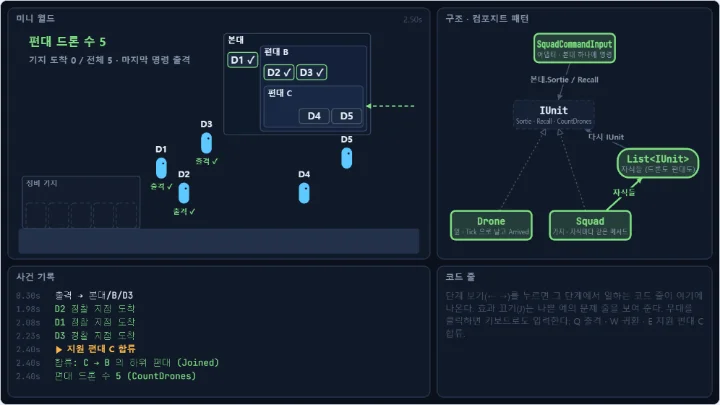
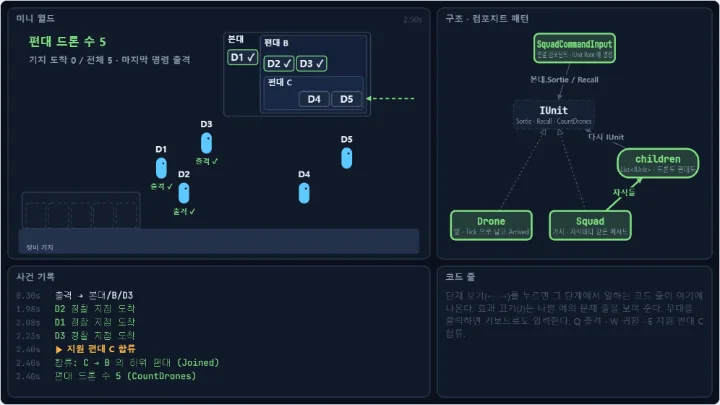
dispatch(composite-drone-squads-fix): 표본 수정: composite-drone-squads
Dispatch-Job: composite-drone-squads-fix
Dispatch-Profile: org
Dispatch-Model: claude-opus-5-5

diff --git a/src/specimens/composite-drone-squads/meta.ts b/src/specimens/composite-drone-squads/meta.ts
@@ -59,7 +59,7 @@ export const meta: PatternMeta = {
       label: '먼저 합류(두 번) → 출격 → 귀환, 속도 4 · 거리 4',
       duration: 5,
       values: { flySpeed: 4, patrolDistance: 4 },
-      note: '속도 4, 거리 4. 0.30초에 먼저 합류하면 나쁜 예는 바로 드론 수가 3 이다 (✖ 수 오산). 0.80초 출격은 패턴에서 C 와 D4, D5 까지 내려가지만 C 는 이미 정찰 중이라 그대로다. 나쁜 예의 출격은 C 에 닿지 않지만 C 가 이미 나가 있어 화면에 차이가 없다. 1.60초에 합류를 또 누르면 패턴은 B.Add 가 "C 는 이미 B 소속" 으로 거절하고 (JoinRejected), 나쁜 예는 supportJoined 플래그로 무시한다. 2.40초 귀환에서 패턴은 4.43초까지 다섯 대가 모두 돌아오고, 나쁜 예는 D4, D5 가 남는다 (✖ 귀환 누락)',
+      note: '속도 4, 거리 4. 0.30초에 먼저 합류하면 나쁜 예는 바로 드론 수가 3 이다 (✖ 수 오산). 0.80초 출격은 패턴에서 C 와 D4, D5 까지 내려가지만 C 는 이미 정찰 중이라 그대로다. 나쁜 예의 출격은 C 에 닿지 않는다. 드론 위치는 패턴과 같지만 무대는 명령이 닿지 않은 것을 회색 `출격 못 받음` 글과 점선 `D4 –`, `D5 –` 칩으로 표시한다 (이미 나가 있어 결과가 같으므로 ✖ 는 아니다). 1.60초에 합류를 또 누르면 패턴은 B.Add 가 "C 는 이미 B 소속" 으로 거절하고 (JoinRejected), 나쁜 예는 supportJoined 플래그로 무시한다. 2.40초 귀환에서 패턴은 4.43초까지 다섯 대가 모두 돌아오고, 나쁜 예는 D4, D5 가 남는다 (✖ 귀환 누락)',
       inputs: [
         [0.3, 'join'],
         [0.8, 'sortie'],
@@ -70,11 +70,11 @@ export const meta: PatternMeta = {
   ],
   diagram: {
     nodes: [
-      { id: 'input', label: 'SquadCommandInput', sub: '어댑터 · 본대 하나에 명령', x: 50, y: 8 },
+      { id: 'input', label: 'SquadCommandInput', sub: '연결 컴포넌트 · IUnit Root 에 명령', x: 50, y: 8 },
       { id: 'iunit', label: 'IUnit', sub: 'Sortie · Recall · CountDrones', x: 42, y: 38, kind: 'interface' },
       { id: 'drone', label: 'Drone', sub: '잎 · Tick 으로 날고 Arrived', x: 18, y: 88 },
       { id: 'squad', label: 'Squad', sub: '가지 · 자식마다 같은 메서드', x: 56, y: 88 },
-      { id: 'children', label: 'List<IUnit>', sub: '자식들 (드론도 편대도)', x: 82, y: 60, kind: 'object' },
+      { id: 'children', label: 'children', sub: 'List<IUnit> · 드론도 편대도', x: 82, y: 60, kind: 'object' },
     ],
     edges: [
       { id: 'input-iunit', from: 'input', to: 'iunit', label: '본대.Sortie / Recall', kind: 'call' },
@@ -100,17 +100,17 @@ export const meta: PatternMeta = {
     ],
   },
   steps: [
-    { n: 1, label: '명령은 본대 하나에 보낸다', body: '`SquadCommandInput` 은 Q·W 를 받으면 `Root.Sortie()` 나 `Root.Recall()` 한 줄만 부른다. 지휘 코드는 본대 아래가 몇 단계인지, 드론이 몇 대인지 모른다. 본대도 `IUnit` 이라 받는 쪽이 드론 한 대여도 같은 줄이다.', target: 'input,input-iunit,iunit' },
-    { n: 2, label: '편대는 자식마다 같은 메서드를 부른다', body: '`Squad.Recall` 은 받았다고 알리고(`OrderReceived`) `List<IUnit>` 자식마다 `child.Recall()` 을 부른다. 자식이 드론인지 편대인지 묻지 않는다 (`is` 검사가 없다). 사건 기록의 `귀환 → 본대`, `귀환 → 본대/D1`, `귀환 → 본대/B` 순서가 이 호출 순서다.', target: 'squad,squad-children,children' },
-    { n: 3, label: '하위 편대도 같은 일을 되풀이한다', body: '자식이 편대 B 면 `B.Recall` 이 다시 D2, D3, C 마다 부르고, C 가 또 D4, D5 에 부른다. 같은 메서드가 잎까지 스스로 내려가므로 세 단계든 열 단계든 지휘 코드는 그대로다. `CountDrones` 와 `Tick` 도 같은 길로 내려가고, Unity 의 `SquadNode` 도 같은 방식으로 Hierarchy 를 내려가며 트리를 만든다. 합류는 `B.Add(C)` 한 번이고, 자기 자신·조상·이미 소속이 있는 편대는 받지 않는다 (`JoinRejected`).', target: 'children,children-iunit,iunit,squad-iunit' },
+    { n: 1, label: '명령은 본대 하나에 보낸다', body: '`SquadCommandInput` 은 본대를 `IUnit Root` 로만 들고, Q·W 를 받으면 `Root.Sortie()` 나 `Root.Recall()` 한 줄만 부른다. 지휘 코드는 본대 아래가 몇 단계인지, 드론이 몇 대인지 모른다. 본대도 `IUnit` 이라 받는 쪽이 드론 한 대여도 같은 줄이다.', target: 'input,input-iunit,iunit' },
+    { n: 2, label: '편대는 자식마다 같은 메서드를 부른다', body: '`Squad.Recall` 은 받았다고 알리고(`OrderReceived`) 자식 목록 `children`(`List<IUnit>`)의 자식마다 `child.Recall()` 을 부른다. 자식이 드론인지 편대인지 묻지 않는다 (`is` 검사가 없다). 사건 기록의 `귀환 → 본대`, `귀환 → 본대/D1`, `귀환 → 본대/B` 순서가 이 호출 순서다.', target: 'squad,squad-children,children' },
+    { n: 3, label: '하위 편대도 같은 일을 되풀이한다', body: '자식이 편대 B 면 `B.Recall` 이 다시 D2, D3, C 마다 부르고, C 가 또 D4, D5 에 부른다. 같은 메서드가 잎까지 스스로 내려가므로 세 단계든 열 단계든 지휘 코드는 그대로다. `CountDrones` 와 `Tick` 도 같은 길로 내려간다. Unity 쪽도 같은 컴포지트다: `SquadNode` 는 자식 오브젝트가 드론인지 편대인지 `is` 로 묻지 않고 `IUnitNode.Build` 하나만 불러, 자식 편대가 다시 자기 자식을 넣으며 Hierarchy 를 내려가 트리를 만든다. 합류는 `B.Add(C)` 한 번이고, 자기 자신·조상·이미 소속이 있는 편대는 받지 않는다 (`JoinRejected`).', target: 'children,children-iunit,iunit,squad-iunit' },
     { n: 4, label: '잎이 실제로 날고 도착을 알린다', body: '움직이는 것은 `Drone.Tick` 뿐이다. `flySpeed` 로 목적지(정찰 지점이나 기지 자리)를 향해 날고, 닿으면 `Arrived` 를 알린다. 편대가 자식의 이벤트를 위로 올려 본대 구독자 하나가 모두 듣는다. Unity 에서는 `DroneUnit.Update` 가 코어 위치를 transform 에 옮긴다.', target: 'drone,drone-iunit' },
   ],
-  offNote: '지원 편대를 합류시킨 뒤 귀환 명령을 내렸더니 그 편대만 밖에 남는다. 드론 목록(`drones`)과 편대 목록(`squads`)을 따로 들고 지휘 코드가 `foreach` 를 두 단계로 겹쳐 도는 흔한 코드다. 하위 편대가 없던 시절에 쓴 `RecallAll` 은 `root.drones` 와 `root.squads` 의 각 `drones` 까지만 돈다. 합류로 C 가 B 의 `squads` 에 들어가면 귀환 명령이 D4, D5 에 닿지 않고 (✖ 귀환 누락, 빨간 `명령 못 받음`), 같은 두 단계로 세는 `CountDrones` 는 5대를 3대로 센다 (✖ 수 오산, `(실제 5)`). 그래서 D1~D3 이 돌아오면 화면은 `기지 도착 3 / 전체 3` 으로 다 돌아왔다고 보인다. `SortieAll` 도 같은 두 단계지만 C 는 처음부터 나가 있어 출격에서는 티가 안 난다. 어느 순서로 누르든 같다: 합류하지 않으면 나쁜 예도 맞고, 합류하는 순간 수가 틀리고, 합류한 뒤 귀환할 때마다 C 가 남는다. 세 번째 `foreach` 를 덧대면 네 단계가 생길 때 또 빠진다. 개별과 묶음을 다르게 다루면 중첩될수록 분기가 감당이 안 된다.',
+  offNote: '지원 편대를 합류시킨 뒤 귀환 명령을 내렸더니 그 편대만 밖에 남는다. 드론 목록(`drones`)과 편대 목록(`squads`)을 따로 들고 지휘 코드가 `foreach` 를 두 단계로 겹쳐 도는 흔한 코드다. 하위 편대가 없던 시절에 쓴 `RecallAll` 은 `root.drones` 와 `root.squads` 의 각 `drones` 까지만 돈다. 합류로 C 가 B 의 `squads` 에 들어가면 귀환 명령이 D4, D5 에 닿지 않고 (✖ 귀환 누락, 빨간 `명령 못 받음`), 같은 두 단계로 세는 `CountDrones` 는 5대를 3대로 센다 (✖ 수 오산, `(실제 5)`). 그래서 D1~D3 이 돌아오면 화면은 `기지 도착 3 / 전체 3` 으로 다 돌아왔다고 보인다. `SortieAll` 도 같은 두 단계라 합류 뒤 출격도 D4, D5 에 닿지 않지만, C 는 처음부터 나가 있어 위치는 같다 (무대는 회색 `출격 못 받음` 과 점선 `D4 –` 칩으로만 표시하고, 결과가 같아 ✖ 로 세지 않는다). 같은 코드를 Unity 에 두면 합류 뒤 귀환했을 때 IMGUI 화면 왼쪽 위에 `편대 드론 수 3`, `기지 도착 3 / 전체 3` 이 보이고 Game 뷰 오른쪽에 D4, D5 만 떠 있다 (빨간 표시는 없다). 어느 순서로 누르든 같다: 합류하지 않으면 나쁜 예도 맞고, 합류하는 순간 수가 틀리고, 합류한 뒤 귀환할 때마다 C 가 남는다. 세 번째 `foreach` 를 덧대면 네 단계가 생길 때 또 빠진다. 개별과 묶음을 다르게 다루면 중첩될수록 분기가 감당이 안 된다.',
   mistakes: [
-    { title: '지원 편대를 합류시켰더니 귀환 명령이 그 편대에만 닿지 않는다', body: '지휘 코드가 `foreach (d in root.drones)` 와 `foreach (s in root.squads) foreach (d in s.drones)` 처럼 정해진 단계만 돈다. 편대 안에 편대가 생기면 세 번째 단계의 드론은 아무도 부르지 않는다. 드론 수를 세는 코드도 같은 모양이라 함께 틀린다. 편대가 자식마다 같은 메서드를 부르게 하면(`child.Recall()`) 단계 수를 코드에 적을 일이 없다.' },
+    { title: '지원 편대를 합류시켰더니 귀환 명령이 그 편대에만 닿지 않는다', body: '지휘 코드가 `foreach (d in root.drones)` 와 `foreach (s in root.squads) foreach (d in s.drones)` 처럼 정해진 단계만 돈다. 편대 안에 편대가 생기면 세 번째 단계의 드론은 아무도 부르지 않는다. 드론 수를 세는 코드도 같은 모양이라 함께 틀린다. Unity 에서는 왼쪽 위 글이 `편대 드론 수 3`, `기지 도착 3 / 전체 3` 으로 다 돌아온 것처럼 보이고, Game 뷰 오른쪽에 D4, D5 만 떠 있다. 편대가 자식마다 같은 메서드를 부르게 하면(`child.Recall()`) 단계 수를 코드에 적을 일이 없다.' },
     { title: '편대 안 편대를 처리하려고 `is Squad` 분기를 넣었더니 명령마다 if 가 늘어난다', body: '`if (u is Drone d) d.Recall(); else if (u is Squad s) …` 를 출격, 귀환, 수 세기마다 쓰면 새 종류(수송 드론 묶음 등)를 더할 때 모든 곳을 고쳐야 하고, 한 곳을 빠뜨리면 그 명령만 안 닿는다. 공통 명령은 `IUnit` 에 두고 각자 구현한다. 편대에만 있는 `Add` 는 이 표본처럼 `Squad` 에만 두거나(안전성: 드론에 넣는 코드를 컴파일이 막는다), `IUnit` 에 두고 `Drone.Add` 가 예외를 던지게 한다(투명성: 쓰는 쪽이 종류를 몰라도 된다). 어느 쪽이든 `Sortie`, `Recall` 에는 분기가 없어야 한다.' },
     { title: '편대를 넣는 순간 게임이 멈추고 StackOverflowException 이 난다', body: '편대를 자기 자신이나 자기 상위 편대 안에 넣으면 트리가 고리가 되어 `Recall` 이 끝없이 자기를 다시 부른다. `Squad.Add` 는 `Parent` 를 따라 올라가며 넣으려는 것이 자기나 조상인지 보고, 그러면 받지 않고 `JoinRejected` 로 알린다. 이 표본의 입력(E)은 C 를 B 에 넣기만 해서 이 경로를 밟지 않지만, 편대를 자유롭게 옮기는 UI 를 만들면 바로 필요하다.' },
-    { title: '한 드론이 명령을 두 번 받는다', body: '같은 드론을 두 편대에 넣었거나, 합류 버튼을 두 번 눌러 같은 편대가 두 번 들어갔다. 트리에서는 한 유닛의 부모가 하나뿐이어야 한다. `Squad.Add` 는 `Parent` 가 이미 있는 유닛을 "C 는 이미 B 소속" 으로 거절한다. 다른 편대로 옮기려면 원래 편대에서 빼는 `Remove` 를 만들고 그 안에서 `Parent` 를 비운 뒤 `Add` 한다.' },
+    { title: '한 드론이 명령을 두 번 받는다', body: '같은 드론을 두 편대에 넣었거나, 합류 버튼을 두 번 눌러 같은 편대가 두 번 들어갔다. 트리에서는 한 유닛의 부모가 하나뿐이어야 한다. `Squad.Add` 는 `Parent` 가 이미 있는 유닛을 "C 는 이미 B 소속" 으로 거절한다. 다른 편대로 옮기려면 원래 편대에서 빼는 `Remove` 를 만들고, 그 안에서 `children.Remove(unit)`, `Parent` 비우기, 이벤트 해제(`unit.OrderReceived -= ForwardOrder`, `unit.Arrived -= ForwardArrived`)를 모두 한 뒤 새 편대에 `Add` 한다. 이벤트 해제를 빠뜨리면 옛 편대가 옮긴 편대의 명령·도착 이벤트를 계속 위로 올려, 본대 구독자가 같은 사건을 두 번 듣는다.' },
     { title: '명령을 내리는 중에 편대를 바꿨더니 InvalidOperationException 이 난다', body: '`foreach (IUnit child in children)` 로 명령을 돌리는 동안 이벤트 핸들러가 `Add` 나 `Remove` 로 그 목록을 고치면 "Collection was modified" 예외가 난다. 예를 들어 `OrderReceived` 를 받자마자 합류시키는 코드다. 이 표본은 합류를 입력 콜백에서만 해 명령 도중과 겹치지 않는다. 명령 도중에 바꿔야 하면 바꿀 일을 모아 두었다가 명령이 끝난 뒤 적용하거나, 자식 목록을 복사해서 돈다.' },
   ],
   unity: {
@@ -125,7 +125,7 @@ export const meta: PatternMeta = {
     ],
     verify: 'E 로 C 를 합류시킨 뒤 W 를 누르면 D4, D5 까지 다섯 대가 모두 기지 자리로 돌아오고, E 를 한 번 더 누르면 Console 에 `[Squad] 합류 거절: C 는 이미 B 소속 (JoinRejected)` 이 나온다.',
     pitfalls: [
-      '`GetComponentsInChildren<DroneUnit>()` 를 본대에서 부르면 아래의 모든 드론을 한 번에 얻어 명령을 다 보낼 수 있다. 하지만 그러면 "편대 B 에만 귀환" 같은 편대 단위 명령과 편대가 받은 기록이 사라지고, 합류 전의 C 처럼 본대 밖의 드론은 빠진다. 꺼진 오브젝트는 기본으로 빠지고 `includeInactive: true` 를 줘야 들어간다. 이 표본의 `SquadNode` 는 바로 아래 자식만 보고, 꺼 둔(`activeSelf` 가 false 인) 자식은 넣지 않는다.',
+      '`GetComponentsInChildren<DroneUnit>()` 를 본대에서 부르면 아래의 모든 드론을 한 번에 얻어 명령을 다 보낼 수 있다. 하지만 그러면 "편대 B 에만 귀환" 같은 편대 단위 명령과 편대가 받은 기록이 사라지고, 합류 전의 C 처럼 본대 밖의 드론은 빠진다. 꺼진 오브젝트는 기본으로 빠지고 `includeInactive: true` 를 줘야 들어간다. 이 표본의 `SquadNode` 는 바로 아래 자식만 보고, 꺼 둔(`activeSelf` 가 false 인) 자식은 넣지 않는다. 합류(`SquadNode.Join`)도 같아서, `C` 나 `B` 를 꺼 둔 채 E 를 누르면 받지 않고 Console 에 오류를 남긴다 (`Join Target`, `Support Squad` 칸이 비었을 때도). 받아 버리면 코어 드론 수는 5 인데 화면에 드론이 없다.',
       '코어 트리는 `SquadCommandInput` 이 처음 `Root` 를 읽을 때(`OnEnable`) 한 번 만든다. Play 중에 Hierarchy 에서 오브젝트를 끌어 옮기거나 껐다 켜도 코어 트리는 그대로다. 합류처럼 코어 `Add` 와 `SetParent` 를 함께 해야 한다 (`SquadNode.Join`). 드론 위치는 `DroneUnit.Update` 가 매 프레임 코어 값으로 넣으므로 Scene 뷰에서 끌어도 다음 프레임에 돌아간다.',
       '`SetParent(transform, true)` 의 두 번째 값 `worldPositionStays` 가 true 면 C 오브젝트의 월드 위치를 그대로 두고 부모만 바꾼다. false 면 local 위치를 그대로 두어 월드 위치가 B 기준으로 바뀐다. 이 표본은 B 와 C 가 모두 (0, 0, 0) 이라 어느 쪽이든 C 가 움직이지 않고, 드론은 `DroneUnit.Update` 가 월드 위치를 넣어 튀지 않는다. 편대 오브젝트를 다른 자리에 두거나 C 에 깃발 같은 표시물을 달았다면 true 여야 한다.',
       '본대의 `Tick` 하나가 트리 안 드론만 움직인다. 합류 전의 C 는 아무도 Tick 하지 않지만 명령을 받을 길도 없어 정찰 지점에 떠 있기만 한다. 합류 전에도 C 를 따로 움직이려면 C 에 자기 지휘 컴포넌트를 두고, 합류할 때 그쪽 Tick 을 멈춘다 (두 곳에서 Tick 하면 두 배로 빠르다).',

diff --git a/src/specimens/composite-drone-squads/sim.ts b/src/specimens/composite-drone-squads/sim.ts
@@ -436,6 +436,10 @@ export const createSim: SimFactory = (values: ParamValues, isNaive: boolean): Pa
       const orderText = lastOrder ? orderName(lastOrder) : ''
       /** 마지막 명령이 닿아야 했는데 못 받은 것 (나쁜 예만) */
       const missedOrder = (name: string) => naive !== null && shouldReach.has(name) && !reached.has(name)
+      /** ✖ 귀환 누락과 같은 판정: 그림자 코어는 들어왔는데(오는 중) 나쁜 예 드론은 밖에 있다. 빨간 표시는 이것만 */
+      const missedRecall = (i: number) => naive !== null && !isOut(drones[i]) && isOut(naiveDrones[i])
+      /** 명령이 안 닿았지만 결과는 같은 것 (이미 나가 있는 드론에 출격). ✖ 가 아니라 회색으로 */
+      const missedNoEffect = (i: number) => !missedRecall(i) && missedOrder(Names[i]) && lastOrder === 'Sortie' && isOut(ds[i])
       const got = (name: string) => lastOrder !== null && reached.has(name)
 
       const world: WorldItem[] = [{ kind: 'box', x: 0, y: 0, w: 16, h: 1, fill: '#22314a' }]
@@ -454,51 +458,68 @@ export const createSim: SimFactory = (values: ParamValues, isNaive: boolean): Pa
       })
       if (naive && shown !== real && docked === shown) world.push({ kind: 'text', x: 0.4, y: 6.95, text: `다 돌아왔다고 보이지만 ${ds.filter(d => isOut(d)).map(d => d.Name).join(', ')} 는 밖에 있다`, align: 'left', size: 18, color: COL.bug })
 
-      // 정비 기지와 자리 다섯 칸
-      world.push({ kind: 'box', x: 0.15, y: 1, w: 4.7, h: 2.1, fill: '#131d2d', stroke: COL.line })
-      world.push({ kind: 'text', x: 0.3, y: 2.7, text: '정비 기지', align: 'left', size: 16, color: COL.dim })
+      // 정비 기지와 자리 다섯 칸. 상자 위 끝(2.45)은 정찰 거리 최소(4)에서 D1 이 뜨는 (4.7, 3) 과 그 아래 글보다 낮다. 이름은 땅 띠에
+      world.push({ kind: 'box', x: 0.15, y: 1, w: 4.7, h: 1.45, fill: '#131d2d', stroke: COL.line })
+      world.push({ kind: 'text', x: 0.3, y: 0.15, text: '정비 기지', align: 'left', size: 14, color: COL.dim })
       for (let i = 0; i < 5; i++) world.push({ kind: 'box', x: HomeXs[i] - 0.4, y: 1.02, w: 0.8, h: 1.0, stroke: '#2b3a52', dashed: true })
 
-      // 드론
-      for (const d of ds) {
+      // 오른쪽 위: 편대 트리 (상자 안 상자). 판의 아래 끝(y 5.5)은 정찰 거리 최대(7)에서 가장 높이 뜨는 D3(9.5, 4)의 이름표 위다.
+      // 드론을 이 판 뒤에 그려 판이 드론을 가리지 않게 한다
+      const squadStroke = (name: string) => (got(name) && recent(at.order, 1.2) ? COL.ok : COL.line)
+      const chip = (i: number, x: number, y: number) => {
+        const name = Names[i]
+        const miss = missedRecall(i)
+        const noEffect = missedNoEffect(i)
+        const ok = !miss && !noEffect && got(name)
+        world.push({
+          kind: 'box',
+          x,
+          y,
+          w: 1.2,
+          h: 0.6,
+          fill: COL.chip,
+          stroke: miss ? COL.bug : noEffect ? COL.dim : ok ? COL.ok : '#4a5872',
+          dashed: noEffect,
+          label: miss ? `${name} ✖` : noEffect ? `${name} –` : ok ? `${name} ✓` : name,
+        })
+      }
+      world.push({ kind: 'box', x: 8.2, y: 5.5, w: 5.85, h: 3.35, fill: '#101a2a', stroke: squadStroke('본대') })
+      world.push({ kind: 'text', x: 8.35, y: 8.45, text: '본대', align: 'left', size: 18, color: COL.text })
+      chip(0, 8.35, 7.55)
+      world.push({ kind: 'box', x: 9.65, y: 5.62, w: 4.25, h: 3.1, fill: '#14213a', stroke: squadStroke('B') })
+      world.push({ kind: 'text', x: 9.8, y: 8.3, text: '편대 B', align: 'left', size: 18, color: COL.text })
+      chip(1, 9.8, 7.3)
+      chip(2, 11.1, 7.3)
+      if (isJoined) {
+        // ✖ 수 오산과 같은 판정 (보이는 수가 실제와 다르다)
+        const cMissed = naive !== null && shown !== real
+        world.push({ kind: 'box', x: 9.8, y: 5.75, w: 3.95, h: 1.33, fill: '#182844', stroke: cMissed ? COL.bug : squadStroke('C'), dashed: cMissed })
+        world.push({ kind: 'text', x: 9.95, y: 6.72, text: '편대 C', align: 'left', size: 18, color: COL.text })
+        if (cMissed) world.push({ kind: 'text', x: 11.2, y: 6.72, text: 'foreach 밖', align: 'left', size: 15, color: COL.bug })
+        chip(3, 11.2, 5.88)
+        chip(4, 12.5, 5.88)
+      } else {
+        world.push({ kind: 'box', x: 14.25, y: 5.5, w: 1.6, h: 3.35, fill: '#101a2a', stroke: '#4a5872', dashed: true })
+        world.push({ kind: 'text', x: 15.05, y: 8.45, text: '편대 C', size: 18, color: COL.text })
+        world.push({ kind: 'text', x: 15.05, y: 8.0, text: '합류 전', size: 15, color: COL.dim })
+        chip(3, 14.45, 7.0)
+        chip(4, 14.45, 6.1)
+      }
+      // 합류 직후: 트리 밖에 있던 C 가 B 안으로 들어온 길
+      if (recent(at.join, 0.8)) world.push({ kind: 'arrow', x1: 15.8, y1: 6.2, x2: 13.85, y2: 6.2, color: isJoined ? COL.ok : COL.dim, dashed: true })
+
+      // 드론 (트리 판보다 나중에 그린다). 빨간 `명령 못 받음` 은 ✖ 귀환 누락과 같은 판정에서만,
+      // 이미 나가 있어 결과가 같은 출격 누락은 회색 한 줄로 (정찰 거리 최대에서 D5 글이 D4 이름표에 닿지 않는 길이.
+      // 오른쪽 끝 드론은 글이 잘리지 않게 글만 안쪽으로)
+      ds.forEach((d, i) => {
         const flying = d.IsFlying
         const facing = d.Status === 'Returning' ? -1 : 1
         world.push({ kind: 'actor', x: d.X, y: d.Y, role: 'ally', label: d.Name, pose: flying ? 'run' : 'idle', facing, scale: 0.6 })
         const markY = d.Y - 0.42
-        if (missedOrder(d.Name)) world.push({ kind: 'text', x: d.X, y: markY, text: '명령 못 받음', size: 18, color: COL.bug })
+        if (missedRecall(i)) world.push({ kind: 'text', x: Math.min(d.X, 15), y: markY, text: '명령 못 받음', size: 18, color: COL.bug })
+        else if (missedNoEffect(i)) world.push({ kind: 'text', x: Math.min(d.X, 15.1), y: markY, text: '출격 못 받음', size: 15, color: COL.dim })
         else if (got(d.Name)) world.push({ kind: 'text', x: d.X, y: markY, text: d.Status === 'Docked' ? '✓' : `${orderText} ✓`, size: 16, color: COL.ok })
-      }
-
-      // 오른쪽 위: 편대 트리 (상자 안 상자)
-      const squadStroke = (name: string) => (got(name) && recent(at.order, 1.2) ? COL.ok : COL.line)
-      const chip = (name: string, x: number, y: number) => {
-        const miss = missedOrder(name)
-        const ok = !miss && got(name)
-        world.push({ kind: 'box', x, y, w: 1.2, h: 0.6, fill: COL.chip, stroke: miss ? COL.bug : ok ? COL.ok : '#4a5872', label: miss ? `${name} ✖` : ok ? `${name} ✓` : name })
-      }
-      world.push({ kind: 'box', x: 8.2, y: 4.75, w: 5.85, h: 4.05, fill: '#101a2a', stroke: squadStroke('본대') })
-      world.push({ kind: 'text', x: 8.35, y: 8.4, text: '본대', align: 'left', size: 18, color: COL.text })
-      chip('D1', 8.35, 7.45)
-      world.push({ kind: 'box', x: 9.65, y: 4.9, w: 4.25, h: 3.4, fill: '#14213a', stroke: squadStroke('B') })
-      world.push({ kind: 'text', x: 9.8, y: 7.95, text: '편대 B', align: 'left', size: 18, color: COL.text })
-      chip('D2', 9.8, 6.95)
-      chip('D3', 11.1, 6.95)
-      if (isJoined) {
-        const cMissed = naive !== null
-        world.push({ kind: 'box', x: 9.8, y: 5.05, w: 3.95, h: 1.65, fill: '#182844', stroke: cMissed ? COL.bug : squadStroke('C'), dashed: cMissed })
-        world.push({ kind: 'text', x: 9.95, y: 6.3, text: '편대 C', align: 'left', size: 18, color: COL.text })
-        if (cMissed) world.push({ kind: 'text', x: 9.95, y: 5.3, text: 'foreach 밖', align: 'left', size: 15, color: COL.bug })
-        chip('D4', 11.2, 5.2)
-        chip('D5', 12.5, 5.2)
-      } else {
-        world.push({ kind: 'box', x: 14.25, y: 4.75, w: 1.6, h: 4.05, fill: '#101a2a', stroke: '#4a5872', dashed: true })
-        world.push({ kind: 'text', x: 15.05, y: 8.4, text: '편대 C', size: 18, color: COL.text })
-        world.push({ kind: 'text', x: 15.05, y: 7.95, text: '합류 전', size: 15, color: COL.dim })
-        chip('D4', 14.45, 6.8)
-        chip('D5', 14.45, 5.9)
-      }
-      // 합류 직후: 트리 밖에 있던 C 가 B 안으로 들어온 길
-      if (recent(at.join, 0.8)) world.push({ kind: 'arrow', x1: 15.8, y1: 5.9, x2: 13.85, y2: 5.9, color: isJoined ? COL.ok : COL.dim, dashed: true })
+      })
 
       // 구조 그림: 입력 직후 그 입력이 지나는 노드와 화살표만
       const active: string[] = []

diff --git a/unity/composite-drone-squads/Unity/SquadCommandInput.cs b/unity/composite-drone-squads/Unity/SquadCommandInput.cs
@@ -1,4 +1,4 @@
-// 본대 지휘 어댑터: Input System 입력을 본대(트리의 뿌리) 하나에 넘긴다. 받는 쪽이 드론인지 편대인지, 트리가 몇 단계인지 모른다.
+// 본대 지휘 연결 컴포넌트: Input System 입력을 본대(트리의 뿌리) 하나에 넘긴다. 본대를 IUnit 으로만 들고 있어, 받는 쪽이 드론인지 편대인지, 트리가 몇 단계인지 모른다.
 // 트리는 처음 읽을 때 Hierarchy 에서 만들고(SquadNode), 매 프레임 본대의 Tick 하나로 트리 안 모든 드론을 움직인다.
 // 화면 글과 Console 기록은 코어 이벤트 핸들러에서 바로 바꾼다. 게임 규칙은 여기 없다 (Core/ 의 Squad, Drone).
 using UnityEngine;
@@ -32,7 +32,7 @@ namespace PatternGallery.CompositeDroneSquads
         [SerializeField] bool logEvents = true;
 
         FlightSettings settings;
-        Squad root;
+        IUnit root; // 지휘 코드는 공통 인터페이스만 안다. 본대가 Squad 라는 것은 트리를 만드는 SquadNode 만 안다
 
         // 확인용 글 (IMGUI). 이벤트 핸들러에서 만들고 OnGUI 는 그리기만 한다
         string countLine = "";
@@ -46,7 +46,7 @@ namespace PatternGallery.CompositeDroneSquads
         /// 처음 읽을 때 Hierarchy 에서 본대 트리를 만든다. 지원 편대도 같은 설정으로 따로 만들어 둔다 (합류 전에는 본대 밖이다).
         /// 다른 오브젝트의 OnEnable 이 이 오브젝트의 Awake 보다 먼저 불려도 null 이 아니게 Awake 에서 만들지 않는다
         /// </summary>
-        public Squad Root
+        public IUnit Root
         {
             get
             {
@@ -112,6 +112,8 @@ namespace PatternGallery.CompositeDroneSquads
             if (settings == null) return;
             settings.FlySpeed = flySpeed;
             settings.PatrolDistance = patrolDistance;
+            // 왼쪽 위 글(드론 수, 기지 도착 수)은 이 두 값을 쓰지 않아 다시 그릴 것이 없다.
+            // 드론 위치는 DroneUnit.Update 가 매 프레임 코어 값으로 옮긴다
         }
 
         void OnSortie(InputAction.CallbackContext _) => Root.Sortie(); // [1] 본대 하나에 보낸다. 트리가 몇 단계인지 모른다
@@ -119,8 +121,13 @@ namespace PatternGallery.CompositeDroneSquads
 
         void OnJoin(InputAction.CallbackContext _)
         {
-            if (joinTarget == null || supportSquad == null) return;
-            joinTarget.Join(supportSquad); // 코어 Add 와 Hierarchy SetParent 를 함께. 결과는 Joined, JoinRejected 로 온다
+            if (joinTarget == null || supportSquad == null)
+            {
+                // 빈 칸은 조용히 넘기지 않는다 (누르는데 아무 일도 없으면 원인을 찾기 어렵다)
+                Debug.LogError($"[Squad] 합류할 수 없다: {(joinTarget == null ? "Join Target" : "Support Squad")} 칸이 비어 있다", this);
+                return;
+            }
+            joinTarget.Join(supportSquad); // 코어 Add 와 Hierarchy SetParent 를 함께. 결과는 Joined, JoinRejected 로 온다 (오브젝트 문제는 Join 이 LogError)
         }
 
         void Update()

diff --git a/unity/composite-drone-squads/Unity/SquadNode.cs b/unity/composite-drone-squads/Unity/SquadNode.cs
@@ -26,10 +26,23 @@ namespace PatternGallery.CompositeDroneSquads
 
         IUnit IUnitNode.Build(FlightSettings settings) => BuildSquad(settings);
 
-        /// <summary>다른 편대를 하위 편대로 받는다. 코어가 받아들였을 때만 Hierarchy 에서도 옮긴다</summary>
+        /// <summary>
+        /// 다른 편대를 하위 편대로 받는다. 코어가 받아들였을 때만 Hierarchy 에서도 옮긴다.
+        /// 오브젝트 쪽 문제(꺼져 있음, 트리를 아직 만들지 않음)는 코어에 넣지 않고 LogError 로 알린다 (BuildSquad 가 꺼진 자식을 빼는 것과 맞춘다)
+        /// </summary>
         public bool Join(SquadNode other)
         {
-            if (squad == null || other.Squad == null) return false; // 둘 다 트리를 만든 뒤에만
+            if (!gameObject.activeInHierarchy || !other.gameObject.activeInHierarchy)
+            {
+                // 꺼진 편대를 받으면 코어 드론 수는 늘지만 화면에는 드론이 없다
+                Debug.LogError($"[Squad] 합류할 수 없다: {(gameObject.activeInHierarchy ? other.name : name)} 오브젝트가 꺼져 있다", this);
+                return false;
+            }
+            if (squad == null || other.Squad == null)
+            {
+                Debug.LogError($"[Squad] 합류할 수 없다: {(squad == null ? name : other.name)} 의 코어 트리가 없다 (본대 아래에 없거나 Support Squad 칸에 넣지 않았다)", this);
+                return false;
+            }
             if (!squad.Add(other.Squad)) return false; // 자기 자신, 조상, 이미 소속이 있는 편대는 코어가 거절한다 (JoinRejected)
             // worldPositionStays = true: 지원 편대 오브젝트의 월드 위치를 그대로 두고 부모만 바꾼다
             other.transform.SetParent(transform, true);
